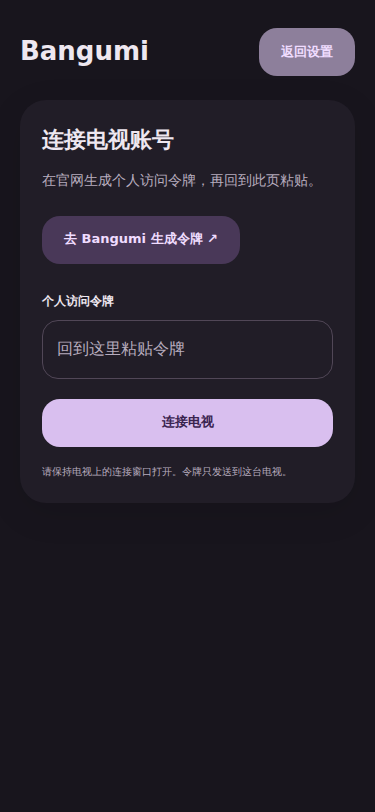
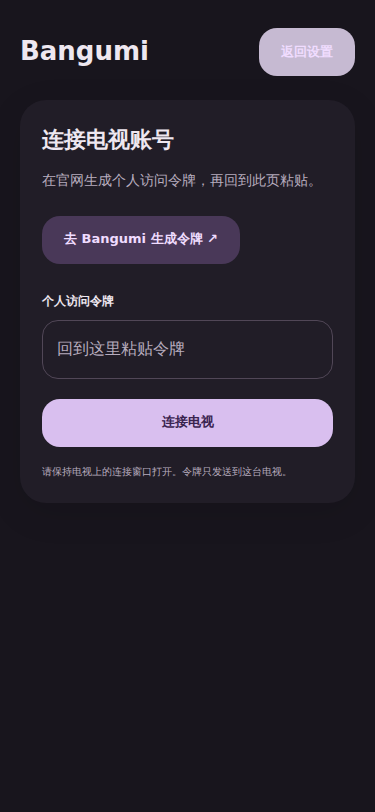
Record passing Bangumi phone pairing verification

Changed region(s): [[0.6747, 0.0308, 0.968, 0.0924]]

diff --git a/docs/testing/reports/2026-11-28-bangumi-phone/README.md b/docs/testing/reports/2026-11-28-bangumi-phone/README.md
@@ -1,16 +1,28 @@
 # Bangumi 手机扫码连接验证
 
-基线提交：`10d60c808`，测试对象为其上未提交的账号连接改动。工作区另有播放器等修改，未计入本功能结论。
+验证提交：`7d835a41be6db10d706950774d387df0017b9248`，分支 `feat/bangumi-phone-20261128`，基线 `10d60c808`。独立分支仅包含账号连接、相关文档与验证用例。
 
-环境：Ubuntu、JDK 21、Android SDK 37.0、固定 Media3 composite；浏览器使用 Python 3.12、Playwright 1.64.1 与 Chromium 受控 HTTP 响应。
+最终 [GitHub Actions 46157574933](https://github.com/wobuhui666/TV/actions/runs/46157574933) 全部通过。环境为 Ubuntu runner、Temurin JDK 21、Python 3.10、Android SDK 37.0、固定 Media3 `342f6590e02ac390e0bd6b4488b8a1bff55747c1` 及仓库补丁；浏览器为 Playwright 1.64.1 / Chromium，设备为 API 34 x86_64 模拟器。
+
+| 检查 | 结果 |
+| --- | --- |
+| 大屏伴侣既有浏览器回归 | 18 项通过 |
+| Bangumi 手机连接浏览器回归 | 6 项通过 |
+| Debug 会话／HTTP／日志／诊断专项 JUnit | 4 类、22 项通过 |
+| Preview 完整应用 JUnit | 174 类、1,385 项通过，无失败或跳过 |
+| Preview 应用和 instrumentation APK | 构建通过 |
+| API 34 Android | 20 项通过：二维码 8、遥控 8、真实日志 1、Bangumi 账号连接 3 |
+
+脱敏结果见 [validation-summary.json](validation-summary.json)。首次本地 Gradle 因内存不足未完成，随后按用户要求迁到 GHA；本地结果不计为 Android 构建或单测通过。
 
 ## 浏览器
 
 运行：
 
 ```bash
-WEB_VERIFY_OUTPUT=/tmp/tv-bangumi-browser \
-  /data/tv-web-verify-venv/bin/python .github/scripts/verify-calendar-account-web.py -v
+python3 .github/scripts/verify-material-web.py --output artifacts/material-web
+WEB_VERIFY_OUTPUT=artifacts/material-web/accounts \
+  python3 .github/scripts/verify-calendar-account-web.py -v
 ```
 
 6 项通过：合法会话提交与完成、无效令牌重试、刷新恢复配对但不恢复令牌、未配对／过期拒绝、网络失败恢复、简体／繁体／英文与浅深色在 320／375／768 宽度无横向溢出。检查令牌只在 POST JSON 中提交、不进入 URL 或浏览器存储、提交后清空输入框。过程中发现同标签页重新扫码未更新和英文按钮窄屏溢出，已修复并复测。
@@ -21,8 +33,31 @@ WEB_VERIFY_OUTPUT=/tmp/tv-bangumi-browser \
 
 ## Android
 
-新增会话单测覆盖并发重复提交、失败重试、过期／取消／替换会话、保存失败与服务停止；接口单测覆盖同源和私网限制、体积限制、非法格式及真实 NanoHTTPD 请求。专项 Gradle 验证结果将在本轮执行完成后记录。
+新增会话单测覆盖重复提交、失败重试、过期／取消／替换会话、保存失败与服务停止；接口单测覆盖同源和私网限制、体积限制、非法格式及真实 NanoHTTPD 请求。
+
+账号 instrumentation 用例从真实电视截图解码二维码，通过实际本机 HTTP 提交令牌，验证取消会话失效、手动输入可达、无效令牌保留原账号、有效令牌经 Keystore 加密保存与完成后重复提交不覆盖账号。Bangumi `/v0/me` 和空收藏分页由受控 OkHttp 响应提供，未访问真实账号。
+
+[首轮 GHA 46156258758](https://github.com/wobuhui666/TV/actions/runs/46156258758) 的单测及构建通过，但账号 UI 的 3 项中有 1 项失败：二维码与说明纵向排列导致底部按钮超出弹窗可见区域。改成并排布局，并显式检查浅深色两种弹窗的取消与手动输入按钮可见后，第二轮全部通过。
+
+| 电视浅色 | 电视深色 |
+| --- | --- |
+| ![电视浅色](bangumi-tv-light.png) | ![电视深色](bangumi-tv-dark.png) |
+
+工作流执行的 Gradle 命令（`sdk.init.gradle` 为工作流生成的 SDK 37.0 兼容脚本）：
+
+```bash
+./gradlew -I sdk.init.gradle :app:testLeanbackArm64_v8aDebugUnitTest \
+  --tests 'com.fongmi.android.tv.server.LogSessionTest' \
+  --tests 'com.fongmi.android.tv.server.process.DiagnosticsTest' \
+  --tests 'com.fongmi.android.tv.calendar.CalendarAccountPairingTest' \
+  --tests 'com.fongmi.android.tv.server.process.CalendarAccountTest' \
+  --no-daemon --build-cache --max-workers=2 --console=plain
+./gradlew -I sdk.init.gradle :app:assembleLeanbackArm64_v8aPreview \
+  :app:assembleLeanbackArm64_v8aPreviewAndroidTest \
+  :app:testLeanbackArm64_v8aPreviewUnitTest \
+  -PtvPreview --no-daemon --build-cache --max-workers=2 --console=plain
+```
 
 ## 覆盖限制
 
-浏览器使用受控接口，无真实账号令牌；未验证真实 Bangumi 登录、iOS Safari 或实体电视扫码。本次不接入 OAuth App ID／Secret，不部署回调服务。既有账号数据导入与操作范围见[使用说明](../../../native-discovery.md#追更日历)，手机接口见[大屏伴侣](../../../web-companion.md#bangumi-账号连接)。
+浏览器使用受控接口；Android 使用生产账号弹窗的预览宿主、真实 HTTP 与 Keystore，官方 API 响应为受控空列表。未验证真实 Bangumi 登录、非空列表同步、个人日历刷新后的真实排期、iOS Safari、API 24 或实体电视扫码，未运行完整 lint。本次不接入 OAuth App ID／Secret，不部署回调服务。既有账号数据导入与操作范围见[使用说明](../../../native-discovery.md#追更日历)，手机接口见[大屏伴侣](../../../web-companion.md#bangumi-账号连接)。

diff --git a/docs/testing/README.md b/docs/testing/README.md
@@ -4,7 +4,7 @@
 
 | 日期 | 报告 | 主要范围与限制 |
 | --- | --- | --- |
-| 2026-11-28 | [Bangumi 手机扫码连接](reports/2026-11-28-bangumi-phone/README.md) | 6 项浏览器回归；取消、过期、重复提交与接口检查；Android 执行状态及真实账号覆盖限制见报告 |
+| 2026-11-28 | [Bangumi 手机扫码连接](reports/2026-11-28-bangumi-phone/README.md) | GHA：24 项网页、22 项专项与 1,385 项完整应用单测、20 项 API 34 检查及 Preview 构建通过；修复弹窗按钮裁切，真实账号未覆盖 |
 | 2026-11-28 | [WEX 自建源迁移与 X20 实测](reports/2026-11-28-wex-x20/README.md) | 16 个点播源、3 个电视直播源；Kazumi Android 10／API 9 与上游同步、MP4 并发及双向拖动、斗鱼直连对照、哔哩 4K 抽测及直播帧证据；18 处引用迁至 zhhshss、9 处解析地址替换；Wex 官方入口同步、旧 JAR 清理和 MyPan 分类验证；23 处 jsdmirror 引用、自建 JAR 改后缀与 X20 加载验证；不覆盖全部频道与 MPV |
 | 2026-11-28 | [网页日志与图标对齐](reports/2026-11-28-web-logs/README.md) | GHA：18 项网页、10 项专项与 1,373 项完整应用单测、17 项 API34 回归及 Preview 构建通过；含真实 logcat → HTTP |
 | 2026-11-24 | [日历账号、栏目筛选、媒体库提速与按钮居中合并发布](reports/2026-11-24-integrated-release/README.md) | 合并后 1656 项单测、API 24／34 日历与追剧各 23 项、API 34 首页／媒体库 88 项（首次 87，重跑通过）及推送页通过；按钮居中有修复前后截图；未在实体电视安装，海报墙界面回归未重跑 |
